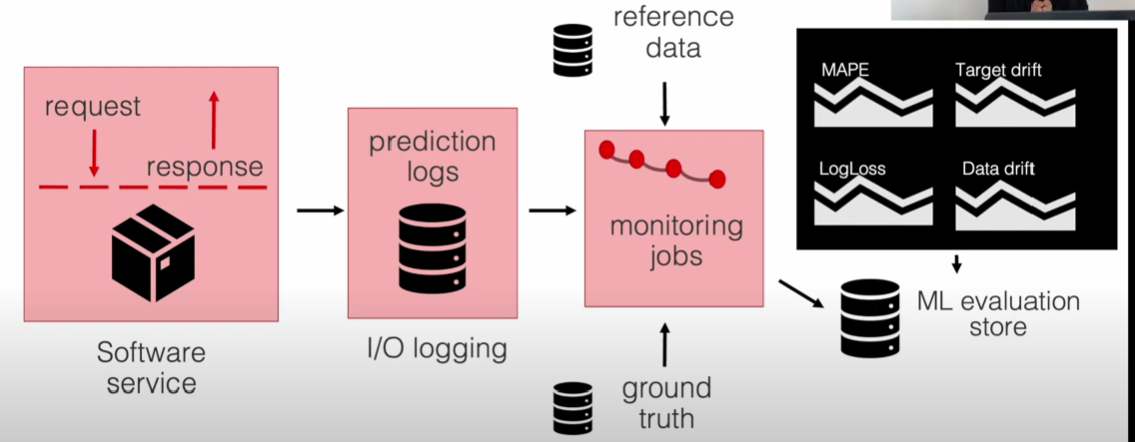
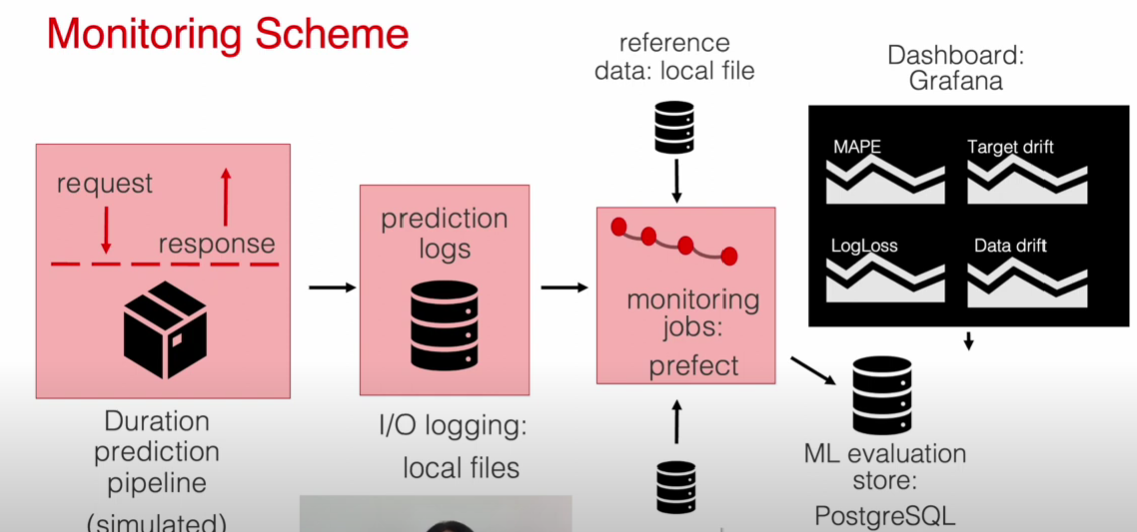
lesson5.2

diff --git a/week5/README.md b/week5/README.md
@@ -43,3 +43,16 @@ create a window function to compare data distribution for each window
 <a>
   <img src="img/pic1-lesson5.1.png">
 </a>
+
+
+
+## requirements.txt explanation
+- prefect for monitoring
+- tqdm for progressive bar
+- requests for load data from internet
+- joblib for saving and loading python objects
+- evidently: Evidently is an open-source Python library for data scientists and ML engineers. It helps evaluate, test, and monitor the performance of ML models from validation to production. It works with tabular, text data and embeddings
+
+## Docker-compose
+* never build docker compose
+```docker-compose up --build```
